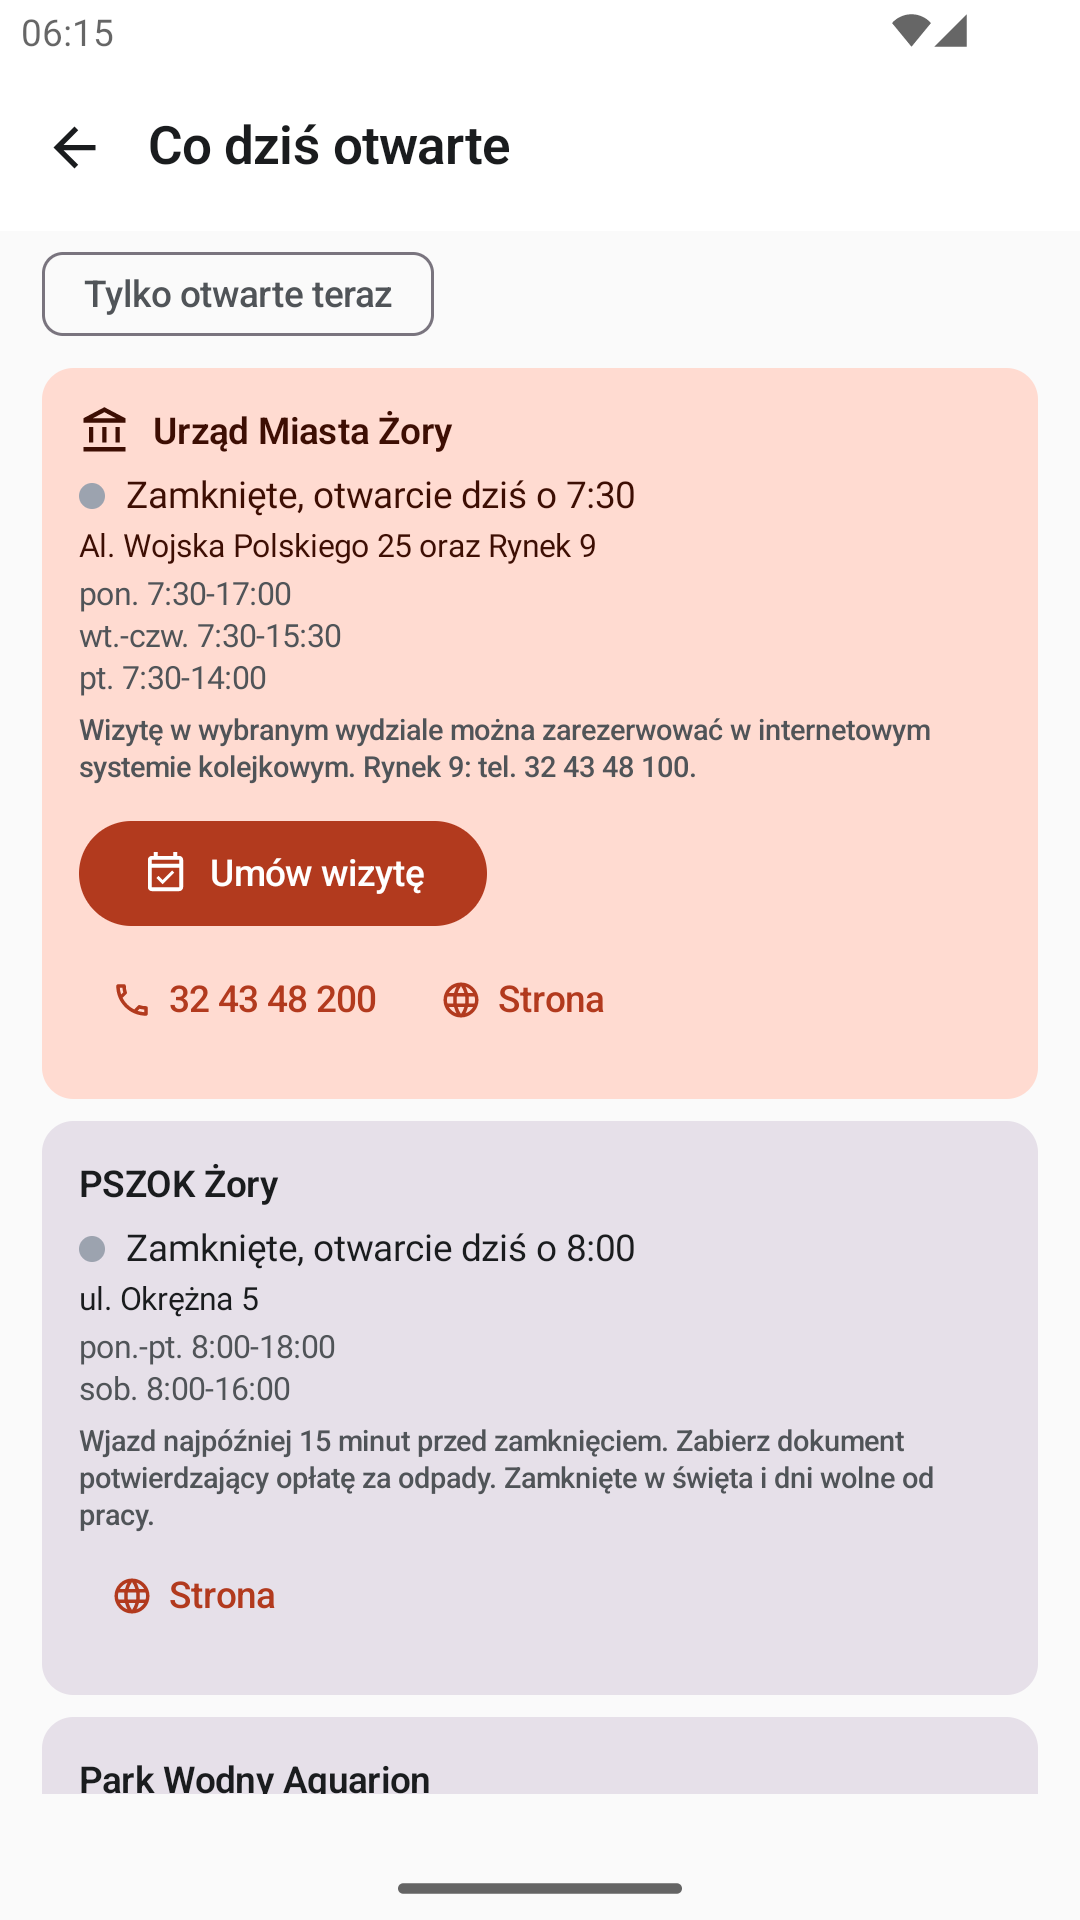
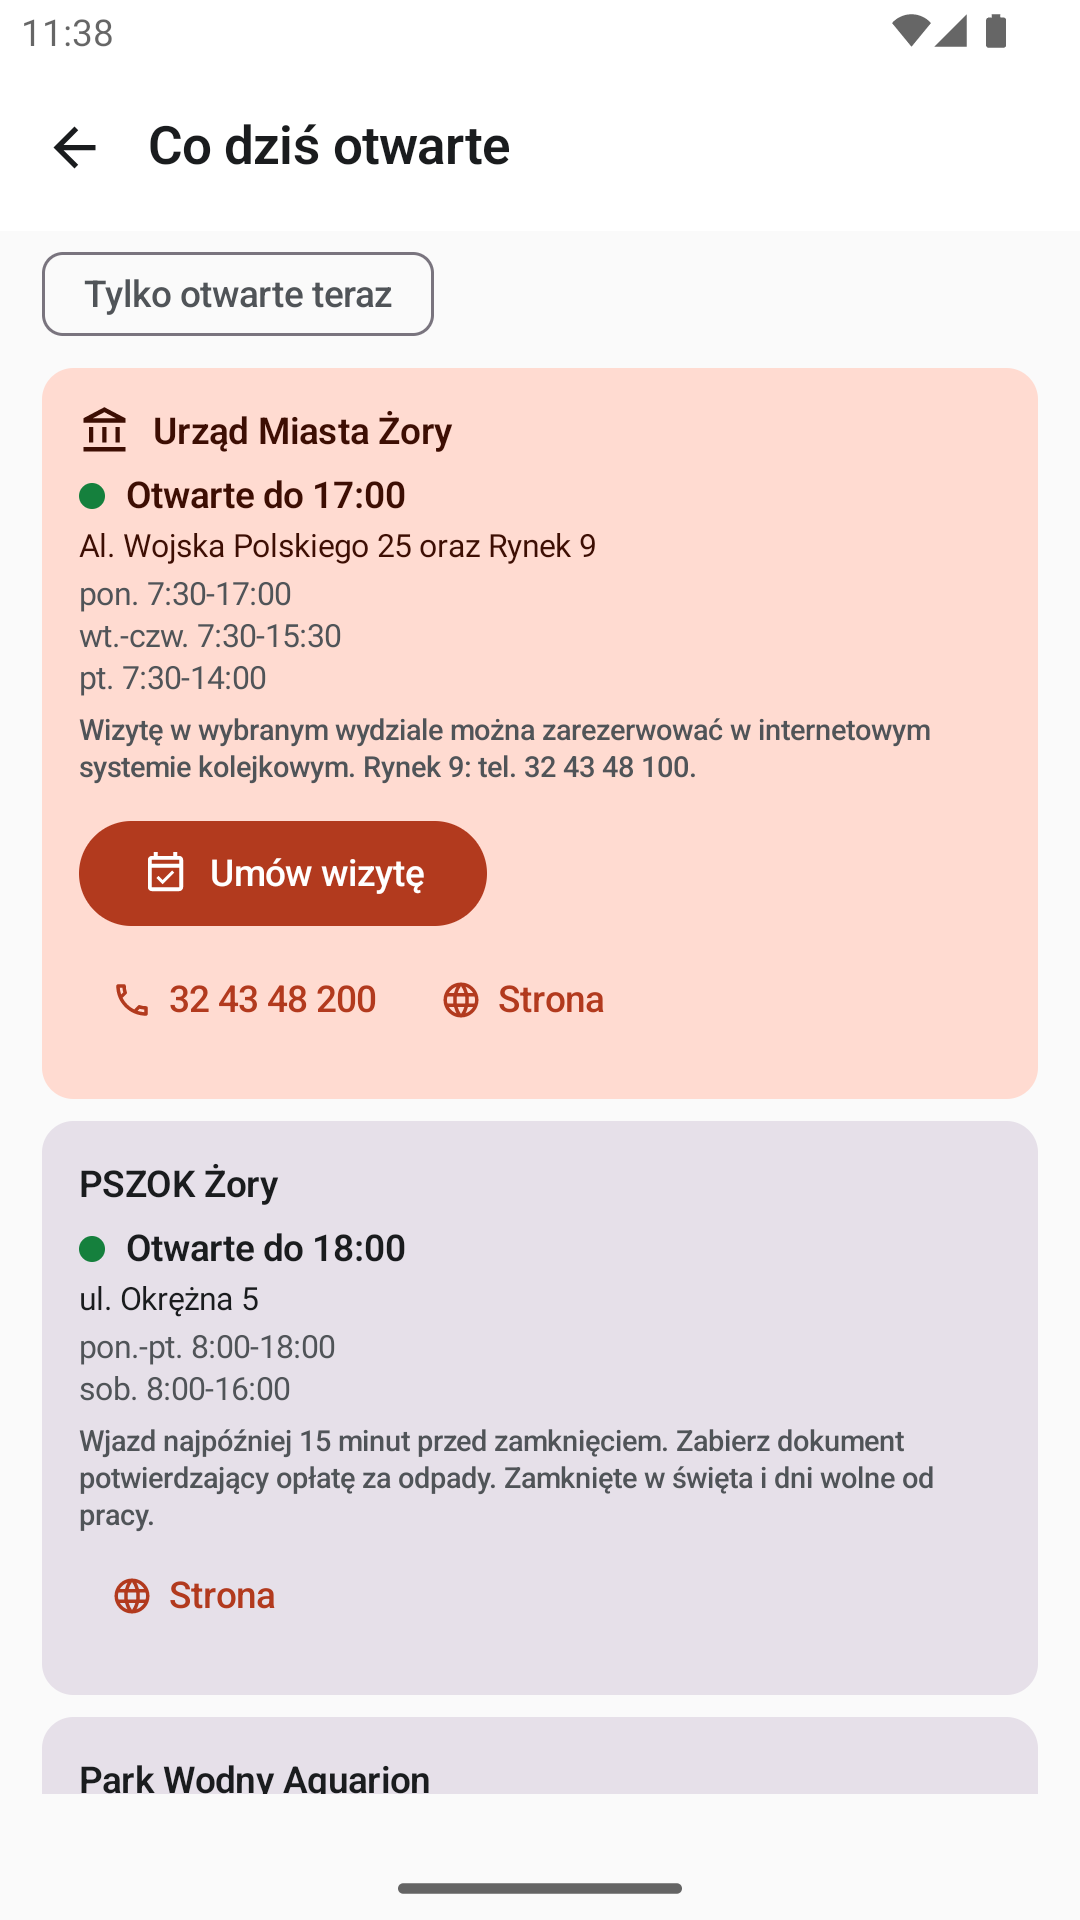
Żory: store listing, screenshots, graphics; QA scripts
Phone (8), 7" and 10" tablet (4 each) screenshots on emulators, captions,
icon and feature graphic from tools/store_assets.py, all within Play limits.
store-listing.md notes the city's own mMieszkaniec app launched 26.08.2026.
tools/qa/ keeps the adb scripts used, NOWE-MIASTO.md how to get daytime shots.

diff --git a/tools/qa/ui.py b/tools/qa/ui.py
@@ -1,0 +1,77 @@
+"""Minimal UI driver over adb + uiautomator: tap by visible text, type, screenshot.
+
+    python ui.py SERIAL tap "Wybierz adres"
+    python ui.py SERIAL tapfirst "Dom jednorodzinny|Boguszowice"   (regex, first match)
+    python ui.py SERIAL type 12
+    python ui.py SERIAL texts                                       (visible texts)
+    python ui.py SERIAL shot out.png
+"""
+import re
+import subprocess
+import sys
+import time
+import xml.etree.ElementTree as ET
+
+ADB = r"C:\Users\Marcin\AppData\Local\Android\Sdk\platform-tools\adb.exe"
+
+
+def adb(serial, *args, binary=False):
+    out = subprocess.run([ADB, "-s", serial, *args], capture_output=True)
+    return out.stdout if binary else out.stdout.decode("utf-8", "replace")
+
+
+def nodes(serial):
+    for _ in range(3):
+        adb(serial, "shell", "uiautomator", "dump", "/sdcard/ui.xml")
+        xml = adb(serial, "shell", "cat", "/sdcard/ui.xml")
+        if "<hierarchy" in xml:
+            root = ET.fromstring(xml[xml.index("<hierarchy"):])
+            return list(root.iter("node"))
+        time.sleep(1)
+    raise SystemExit("no ui dump")
+
+
+def center(node):
+    x1, y1, x2, y2 = map(int, re.findall(r"\d+", node.get("bounds")))
+    return (x1 + x2) // 2, (y1 + y2) // 2
+
+
+def find(serial, pattern):
+    rx = re.compile(pattern)
+    for n in nodes(serial):
+        label = n.get("text") or n.get("content-desc") or ""
+        if label and rx.search(label):
+            return n
+    return None
+
+
+def main():
+    serial, cmd, *rest = sys.argv[1:]
+    if cmd in ("tap", "tapfirst"):
+        n = find(serial, rest[0] if cmd == "tapfirst" else "^" + re.escape(rest[0]) + "$")
+        if n is None:
+            raise SystemExit(f"not found: {rest[0]}")
+        x, y = center(n)
+        adb(serial, "shell", "input", "tap", str(x), str(y))
+        print(f"tapped {n.get('text') or n.get('content-desc')!r} at {x},{y}")
+        time.sleep(float(rest[1]) if len(rest) > 1 else 1.5)
+    elif cmd == "type":
+        adb(serial, "shell", "input", "text", rest[0].replace(" ", "%s"))
+        time.sleep(0.8)
+    elif cmd == "texts":
+        seen = []
+        for n in nodes(serial):
+            t = n.get("text") or n.get("content-desc")
+            if t and t not in seen:
+                seen.append(t)
+        print(" | ".join(seen))
+    elif cmd == "shot":
+        png = adb(serial, "exec-out", "screencap", "-p", binary=True)
+        if png[1:4] != b"PNG":
+            raise SystemExit(f"empty screencap, {rest[0]} not written")
+        open(rest[0], "wb").write(png)
+        print("shot", rest[0])
+
+
+if __name__ == "__main__":
+    main()

diff --git a/cities/zory/play/store-listing.md b/cities/zory/play/store-listing.md
@@ -1,0 +1,109 @@
+# Opis do Google Play: Moje Żory
+
+To nowa aplikacja w Play Console (**Utwórz aplikację**), a nie kolejne wydanie Mojego
+Rybnika: inny pakiet, `com.adminstack.zory`. Gotowe teksty wklejasz w
+**Grow → Store presence → Main store listing**.
+
+> **Zanim wydasz:** 26.08.2026 miasto uruchomiło oficjalną aplikację **mMieszkaniec**
+> (Rekord Mobile: ogłoszenia, zgłoszenia, odpady, mapa atrakcji, cyfrowa karta
+> mieszkańca). Moje Żory jej nie udaje i nie powtarza nazwy, ale w sklepie będą obok
+> siebie. Czym się różnimy: bezpłatne autobusy BKM z rozkładem offline i wyszukiwarką
+> połączeń, „co dziś otwarte” z rezerwacją wizyty w urzędzie, kiosk Kuriera Żorskiego,
+> harmonogram dla bloków co do budynku, powietrze, wyłączenia prądu, widget.
+
+---
+
+## Nazwa aplikacji (max 30 znaków)
+
+```
+Moje Żory
+```
+
+*(9 znaków. To samo co `appName` w `cities/zory/city.json`.)*
+
+---
+
+## Krótki opis (max 80 znaków)
+
+```
+Odpady, darmowe autobusy BKM, co dziś otwarte, Kurier Żorski. Bez reklam i kont.
+```
+
+*(80 znaków. Plik: `play/opis-krotki.txt`.)*
+
+---
+
+## Pełny opis (max 4000 znaków)
+
+Wklej treść `play/opis-pelny.txt` (3921 znaków). Nie kopiuj go stąd ani z podglądu
+z łamanymi wierszami, bo Play zachowuje każde złamanie wiersza.
+
+Fakty z opisu sprawdzone na danych z 11-12 października 2026:
+- odpady: PDF dla domów (16 rejonów + 29 odcinków „utrudnionych”) i 10 plików Word dla
+  bloków (119 grup budynków); frakcje: zmieszane, bio, zielone, popiół, papier/plastik/szkło,
+  gabaryty, elektronika, opony, liście i choinki; próbki porównane z plikami miasta,
+- BKM: 9 linii, 187 przystanków, GTFS miasta ważny do 31.12.2026 (nowe wydanie dociąga
+  się samo),
+- co dziś otwarte: urząd, PSZOK i 8 atrakcji z godzinami przepisanymi ze stron miasta,
+  strony pilnowane skrótem, zmiana = alarm w `STATUS.md`,
+- Kurier Żorski: 13 numerów z 2025-2026, okładki i PDF ze strony miasta,
+- słownik „gdzie wyrzucić”: 319 haseł z żorskiego alfabetu odpadów,
+- powietrze: stacja GIOŚ w Jastrzębiu-Zdroju (stacja w Żorach mierzy pył tylko ręcznie,
+  wyniki są po 4-8 tygodniach),
+- wiadomości: zory.pl, Radio 90, PSSE Rybnik, IMGW (powiat żorski).
+
+---
+
+## Kategoria i kontakt
+
+- **Kategoria aplikacji:** Wiadomości i czasopisma (jak Mój Rybnik)
+- **Tagi:** wiadomości lokalne, transport publiczny
+- **E-mail kontaktowy:** office@admin-stack.com
+- **Polityka prywatności:**
+  `https://github.com/esm0x/miasto-engine/blob/main/cities/zory/PRIVACY.md`
+- **Ikona i nazwa:** neutralna sylweta miasteczka w kolorze #B23A1E, **bez herbu ani logo
+  miasta** (herb wymaga zgody rady miasta). W opisie stoi, że to projekt niezależny.
+
+---
+
+## Wydanie w Play Console
+
+- **Plik:** `app/build/outputs/bundle/zoryRelease/app-zory-release.aab`
+  (`./gradlew bundleZoryRelease`), podpisany tym samym kluczem co Mój Rybnik
+- **Wersja:** 1.0.0, versionCode 1
+- **Nazwa wydania:** `1 (1.0.0)`
+- **Co nowego** (max 500 znaków): wklej `play/co-nowego-1.0.0.txt` (354 znaki).
+
+---
+
+## Zrzuty ekranu
+
+Wszystkie w proporcjach 9:16, z podpisem w górnym pasie (18,75% wysokości, limit
+Google to 20%), bez ramek urządzeń. Zrobione na emulatorach 12.10.2026 na wersji 1.0.0,
+z adresem Wodzisławska 218 (dom) i ulubionym przystankiem Centrum Przesiadkowe, w
+poniedziałek przed południem (strefa czasowa emulatora przestawiona, żeby urząd i
+autobusy były w godzinach pracy). Przebudowa: `python tools/store_assets.py zory`.
+
+Kurier Żorski celowo nie ma osobnego zrzutu: okładki to logo i zdjęcia miasta, a zrzut
+w sklepie nie powinien sugerować, że aplikacja jest miejska. Kurier jest widoczny jako
+karta na ekranie startowym.
+
+**Telefon:** `screenshots-916/phone/`, 1080 × 1920:
+
+1. `01-start.png`: Najważniejsze na jednym ekranie
+2. `02-odpady.png`: Wywóz odpadów pod Twój adres
+3. `03-co-otwarte.png`: Co dziś otwarte
+4. `04-autobusy.png`: Bezpłatne autobusy BKM
+5. `05-wydarzenia.png`: Co się dzieje w Żorach
+6. `06-wiadomosci.png`: Wiadomości i komunikaty
+7. `07-gdzie-wyrzucic.png`: Gdzie to wyrzucić?
+8. `08-ciemny-motyw.png`: Jasny i ciemny motyw
+
+**Tablet 7":** `screenshots-916/tablet-7/`, 1080 × 1920.
+**Tablet 10":** `screenshots-916/tablet-10/`, 1440 × 2560.
+Na tabletach po cztery: start, co dziś otwarte, kalendarz wywozów, wydarzenia.
+
+## Grafiki
+
+- `graphics/icon-512.png`: ikona 512 × 512, sylweta miasteczka na kolorze #B23A1E
+- `graphics/feature-graphic-1024x500.png`: grafika promocyjna 1024 × 500

diff --git a/docs/NOWE-MIASTO.md b/docs/NOWE-MIASTO.md
@@ -73,6 +73,13 @@ się nigdzie pokazać.
   `raw-tablet10` (telefon 1080×1920, tablet 7" 1080×1920 @280 dpi, tablet 10" 1440×2560
   @320 dpi); pasek statusu czyścić trybem demo Androida, broadcast z `-f 0x10000000`
   (bez tej flagi SystemUI na tabletach potrafi się zawiesić)
+- godzina na zrzutach ma sens: urząd otwarty, autobusy kursują. Bez roota zegara nie
+  przestawisz, ale strefę tak: `adb shell cmd alarm set-timezone America/New_York`
+  (wieczorem w Polsce daje przedpołudnie), dopiero po pełnym starcie systemu, i zegar
+  trybu demo ustaw na faktyczną godzinę urządzenia (`date +%H%M`), bo apka liczy „otwarte
+  do…” według zegara, nie paska. Skrypty: `tools/qa/` (wzór Żor) albo jak w Lubomii
+- emulatory po jednym naraz i z `-memory 2048`: przy 16 GB RAM, Android Studio
+  i demonach Gradle dwa emulatory potrafią zawiesić gościa (`./gradlew --stop` pomaga)
 - podpisy w `play/captions.json`, potem `python tools/store_assets.py <slug>`:
   zrzuty z podpisami w kolorach miasta, `graphics/icon-512.png` (sylweta miasteczka)
   i `graphics/feature-graphic-1024x500.png`; skrypt sprawdza limity Google Play
